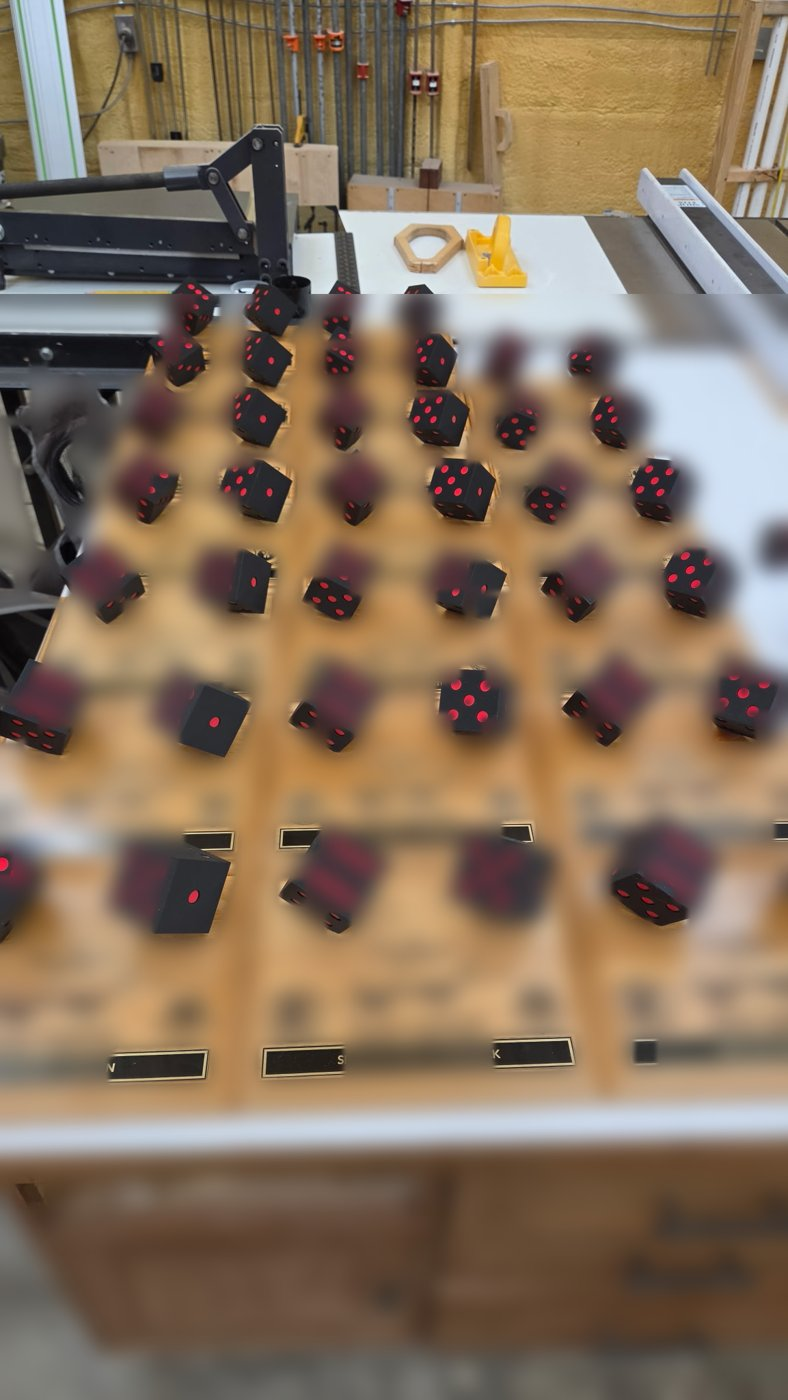
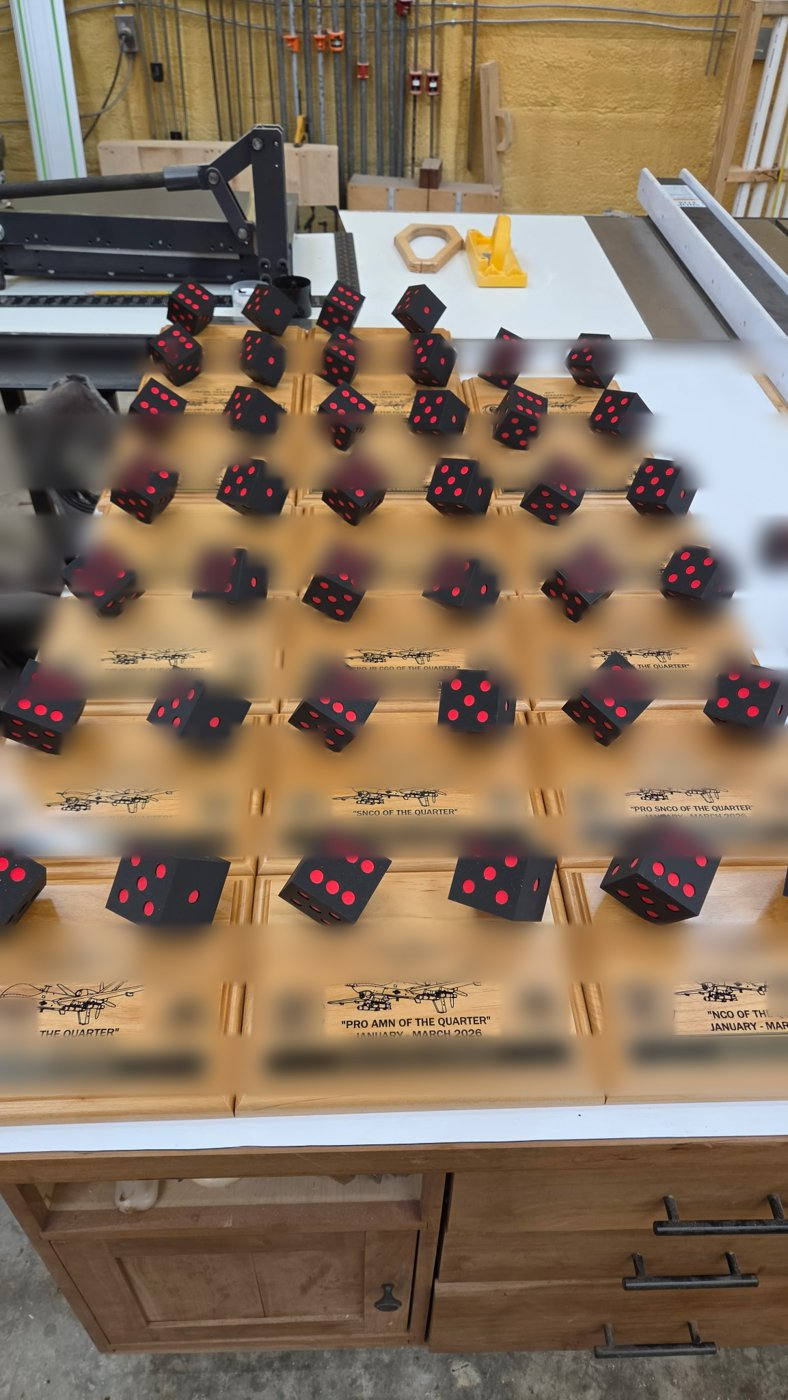
Captions from review; drop radio and algae; finer plaque censor

diff --git a/README.md b/README.md
@@ -6,10 +6,9 @@ Photos only: no model files are published.
 | | |
 |---|---|
 | ![Hexapod, current build](media/hexapod-v2.jpg) **Hexapod (current build)** — printed frame and legs, mid-assembly. Femurs and tibias designed in Onshape. Software: [hexapod-rl](https://github.com/evilhobo1911/hexapod-rl). | ![Hexapod, aluminum prototype](media/hexapod-v0-aluminum.jpg) **Hexapod (first prototype)** — hand-fabricated aluminum brackets, hobby servos, depth camera, power-tool batteries. Where the robot started. |
-| ![Axial flux motor](media/axial-flux-motor.gif) **Axial-flux motor** — prototype motor build. [Clip](media/axial-flux-motor.mp4) | ![Desk deck](media/cyberdeck.jpg) **Desk deck** — Raspberry Pi control panel with printed enclosures and a touch interface for my assistant, [ARI](https://github.com/evilhobo1911/ari). |
-| ![Award radio replica](media/award-radio-replica.jpg) **Award radio replica** — a modeled and printed replica radio, made as a personalized award (dedication blurred). | ![Award dice](media/award-dice-batch.jpg) **Award dice** — a production batch of printed dice for a set of award plaques. |
-| ![Award plaques](media/award-dice-plaques.jpg) **Award plaques** — the finished set, made in collaboration (names blurred). | ![Trench terrain](media/ttrpg-trench-terrain.jpg) **Tabletop trench terrain** — modular trench board for tabletop games. |
-| ![Algae tank](media/algae-photobioreactor.jpg) **Algae culture tank** — outdoor culture tank with a filtered water supply. | |
+| ![Axial flux motor](media/axial-flux-motor.gif) **Axial-flux motor** — my stator and rotor design, hand-wound coils. [Clip](media/axial-flux-motor.mp4) | ![Desk deck](media/cyberdeck.jpg) **Desk deck** — Raspberry Pi control panel with printed enclosures and a touch interface for my assistant, [ARI](https://github.com/evilhobo1911/ari). |
+| ![Award dice](media/award-dice-batch.jpg) **Award dice** — a production batch of dice I designed and printed for a set of award plaques. | ![Award plaques](media/award-dice-plaques.jpg) **Award plaques** — the finished set: my dice, plaques built by my dad (names blurred). |
+| ![Trench terrain](media/ttrpg-trench-terrain.jpg) **Tabletop trench terrain** — hand-carved foam, sculpted and painted by me. | |
 
 ---
 © 2026 evilhobo1911. All rights reserved.
